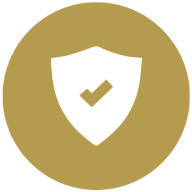
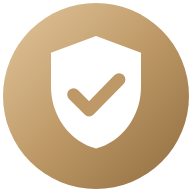
insuranceadjustersalary: SEO pass for the live domain
- Google tag (G-KLZBN543NX) on every page and post via the shared header
- Google Search Console verification file at the site root
- Favicon set: favicon.ico (16/32/48), SVG, 16/32 PNG, apple-touch-icon,
  192/512 + maskable icons and site.webmanifest
- Static robots.txt with the sitemap (the host serves .txt files directly)
- Sitemap: real lastmod dates and image entries
- Canonical URLs, schema and sitemap always use https://insuranceadjustersalary.com;
  /index.php and /dir/index.php 301 to the clean URL
- WebPage + BreadcrumbList schema on every page, article published/modified
  meta, Twitter and og:locale tags, noindex on the 404 page
- Fixed meta description lengths on home, privacy and terms

Claude-Session: https://claude.ai/code/session_01Pc9e9GP3dDvseSFrpLeuDY

diff --git a/insuranceadjustersalary/googlecccfbf2f7e9e5ae4.html b/insuranceadjustersalary/googlecccfbf2f7e9e5ae4.html
@@ -1,0 +1,1 @@
+google-site-verification: googlecccfbf2f7e9e5ae4.html

diff --git a/insuranceadjustersalary/inc/header.php b/insuranceadjustersalary/inc/header.php
@@ -17,7 +17,8 @@ $graph = array_merge([
         '@id'   => base_url() . '/#org',
         'name'  => SITE_NAME,
         'url'   => base_url() . '/',
-        'logo'  => base_url() . '/icon-192.png',
+        'logo'  => base_url() . '/icon-512.png',
+        'description' => SITE_TAGLINE,
     ],
     [
         '@type' => 'WebSite',
@@ -29,15 +30,42 @@ $graph = array_merge([
 ], $page['schema']);
 
 $current = strtok($_SERVER['REQUEST_URI'] ?? '/', '?');
+
+// BreadcrumbList for regular pages (blog posts build their own in post-template.php)
+if ($page['type'] !== 'article' && $page['path'] !== '/' && empty($page['noindex'])) {
+    $names = ['tools' => 'Tools', 'insurance-adjuster-advice' => 'Insurance Adjuster Advice', 'about' => 'About',
+        'privacy-policy' => 'Privacy Policy', 'terms-of-use' => 'Terms of Use'];
+    $crumbs = [['@type' => 'ListItem', 'position' => 1, 'name' => 'Home', 'item' => base_url() . '/']];
+    $isTool = in_array($page['path'], array_column(tools(), 'path'), true);
+    if ($isTool) {
+        $crumbs[] = ['@type' => 'ListItem', 'position' => 2, 'name' => 'Tools', 'item' => base_url() . '/tools/'];
+    }
+    $slug = trim($page['path'], '/');
+    $label = $names[$slug] ?? ($isTool ? array_column(tools(), 'name', 'path')[$page['path']] : $page['title']);
+    $crumbs[] = ['@type' => 'ListItem', 'position' => count($crumbs) + 1, 'name' => $label, 'item' => $canonical];
+    $graph[] = ['@type' => 'BreadcrumbList', 'itemListElement' => $crumbs];
+}
+$graph[] = ['@type' => 'WebPage', '@id' => $canonical . '#webpage', 'url' => $canonical,
+    'name' => $page['title'], 'description' => $page['description'], 'isPartOf' => ['@id' => base_url() . '/#website'], 'inLanguage' => 'en-US',
+    'primaryImageOfPage' => $ogImage];
 ?><!doctype html>
 <html lang="en-US">
 <head>
 <meta charset="utf-8">
 <meta name="viewport" content="width=device-width, initial-scale=1">
+<!-- Google tag (gtag.js) -->
+<script async src="https://www.googletagmanager.com/gtag/js?id=<?= GA_ID ?>"></script>
+<script>
+  window.dataLayer = window.dataLayer || [];
+  function gtag(){dataLayer.push(arguments);}
+  gtag('js', new Date());
+
+  gtag('config', '<?= GA_ID ?>');
+</script>
 <title><?= e($page['title']) ?></title>
 <meta name="description" content="<?= e($page['description']) ?>">
-<?php if (is_temporary_host()): ?>
-<meta name="robots" content="noindex, nofollow">
+<?php if (is_temporary_host() || !empty($page['noindex'])): ?>
+<meta name="robots" content="noindex, follow">
 <?php else: ?>
 <meta name="robots" content="index, follow, max-image-preview:large">
 <?php endif; ?>
@@ -48,10 +76,25 @@ $current = strtok($_SERVER['REQUEST_URI'] ?? '/', '?');
 <meta property="og:description" content="<?= e($page['description']) ?>">
 <meta property="og:url" content="<?= e($canonical) ?>">
 <meta property="og:image" content="<?= e($ogImage) ?>">
+<meta property="og:image:width" content="1200">
+<meta property="og:image:alt" content="<?= e($page['title']) ?>">
+<meta property="og:locale" content="en_US">
+<?php if ($page['type'] === 'article' && !empty($page['published'])): ?>
+<meta property="article:published_time" content="<?= e($page['published']) ?>">
+<meta property="article:modified_time" content="<?= e($page['modified'] ?? $page['published']) ?>">
+<?php endif; ?>
 <meta name="twitter:card" content="summary_large_image">
+<meta name="twitter:title" content="<?= e($page['title']) ?>">
+<meta name="twitter:description" content="<?= e($page['description']) ?>">
+<meta name="twitter:image" content="<?= e($ogImage) ?>">
 <meta name="theme-color" content="#121212">
+<link rel="icon" href="/favicon.ico" sizes="48x48">
+<link rel="icon" type="image/svg+xml" href="/favicon.svg">
 <link rel="icon" type="image/png" sizes="32x32" href="/favicon-32.png">
-<link rel="apple-touch-icon" href="/apple-touch-icon.png">
+<link rel="icon" type="image/png" sizes="16x16" href="/favicon-16.png">
+<link rel="apple-touch-icon" sizes="180x180" href="/apple-touch-icon.png">
+<link rel="manifest" href="/site.webmanifest">
+<link rel="sitemap" type="application/xml" title="Sitemap" href="/sitemap.xml">
 <link rel="preconnect" href="https://fonts.googleapis.com">
 <link rel="preconnect" href="https://fonts.gstatic.com" crossorigin>
 <link href="https://fonts.googleapis.com/css2?family=Inter:wght@400;500;600;700&family=Playfair+Display:wght@600;700;800&display=swap" rel="stylesheet">

diff --git a/insuranceadjustersalary/inc/sitemap.php b/insuranceadjustersalary/inc/sitemap.php
@@ -1,23 +1,35 @@
 <?php
-// XML sitemap built from the page list + blog posts, using the host the site is served from.
+// XML sitemap (pages + blog posts, with image entries) on the canonical domain.
+$posts = all_posts();
+$latest = max(array_map(fn($p) => $p['updated'] ?? $p['date'], $posts) ?: ['2026-10-19']);
+$siteUpdated = '2026-10-19';
+
 $urls = [
-    ['/', date('Y-m-d'), '1.0'],
-    ['/tools/', '2026-10-19', '0.8'],
-    ['/salary-calculator/', '2026-10-19', '0.9'],
-    ['/cat-deployment-calculator/', '2026-10-19', '0.8'],
-    ['/public-adjuster-fee-calculator/', '2026-10-19', '0.8'],
-    ['/salary-by-state/', '2026-10-19', '0.9'],
-    [BLOG_BASE, array_values(all_posts())[0]['date'] ?? '2026-10-19', '0.8'],
-    ['/about/', '2026-10-19', '0.4'],
-    ['/privacy-policy/', '2026-10-19', '0.2'],
-    ['/terms-of-use/', '2026-10-19', '0.2'],
+    ['/', max($latest, $siteUpdated), '1.0', 'hero-roof-inspection.webp'],
+    ['/salary-calculator/', $siteUpdated, '0.9', 'analytics-laptop.webp'],
+    ['/salary-by-state/', $siteUpdated, '0.9', 'miami-skyline.webp'],
+    ['/cat-deployment-calculator/', $siteUpdated, '0.8', 'tornado-storm.webp'],
+    ['/public-adjuster-fee-calculator/', $siteUpdated, '0.8', 'signing-documents.webp'],
+    ['/tools/', $siteUpdated, '0.7', 'women-laptop.webp'],
+    [BLOG_BASE, $latest, '0.8', 'office-team.webp'],
+    ['/about/', $siteUpdated, '0.4', 'handshake.webp'],
+    ['/privacy-policy/', $siteUpdated, '0.2', null],
+    ['/terms-of-use/', $siteUpdated, '0.2', null],
 ];
-foreach (all_posts() as $p) {
-    $urls[] = [post_url($p), $p['updated'] ?? $p['date'], '0.7'];
+foreach ($posts as $p) {
+    $urls[] = [post_url($p), $p['updated'] ?? $p['date'], '0.7', $p['image']];
 }
+
 echo '<?xml version="1.0" encoding="UTF-8"?>' . "\n";
-echo '<urlset xmlns="http://www.sitemaps.org/schemas/sitemap/0.9">' . "\n";
-foreach ($urls as [$loc, $mod, $prio]) {
-    echo '  <url><loc>' . e(base_url() . $loc) . '</loc><lastmod>' . e($mod) . '</lastmod><priority>' . $prio . "</priority></url>\n";
+echo '<urlset xmlns="http://www.sitemaps.org/schemas/sitemap/0.9" xmlns:image="http://www.google.com/schemas/sitemap-image/1.1">' . "\n";
+foreach ($urls as [$loc, $mod, $prio, $img]) {
+    echo '  <url>' . "\n";
+    echo '    <loc>' . e(base_url() . $loc) . "</loc>\n";
+    echo '    <lastmod>' . e($mod) . "</lastmod>\n";
+    echo '    <priority>' . $prio . "</priority>\n";
+    if ($img) {
+        echo '    <image:image><image:loc>' . e(base_url() . '/assets/img/' . $img) . "</image:loc></image:image>\n";
+    }
+    echo "  </url>\n";
 }
 echo '</urlset>' . "\n";

diff --git a/insuranceadjustersalary/inc/config.php b/insuranceadjustersalary/inc/config.php
@@ -11,12 +11,26 @@ const ASSET_VER    = '20261019b';
 
 define('SITE_ROOT', dirname(__DIR__));
 
-/** Scheme + host the site is being served from (works on the temporary domain and after the move). */
+const GA_ID        = 'G-KLZBN543NX';
+
+/** Canonical origin. Always the real domain so canonicals, sitemap and schema never point at a preview host. */
 function base_url(): string
 {
-    $host = $_SERVER['HTTP_HOST'] ?? CANONICAL_HOST;
-    $host = preg_replace('/[^a-z0-9.\-:]/i', '', $host);
-    return 'https://' . $host;
+    $host = strtolower($_SERVER['HTTP_HOST'] ?? '');
+    if (str_contains($host, 'localhost') || str_starts_with($host, '127.')) {
+        return 'http://' . preg_replace('/[^a-z0-9.\-:]/i', '', $host);   // local preview
+    }
+    return 'https://' . CANONICAL_HOST;
+}
+
+// Collapse duplicate URLs: /index.php and /dir/index.php -> clean directory URL (301).
+if (PHP_SAPI !== 'cli') {
+    $reqPath = strtok($_SERVER['REQUEST_URI'] ?? '/', '?');
+    if (preg_match('#^(.*/)index\.php$#', $reqPath, $m)) {
+        $qs = $_SERVER['QUERY_STRING'] ?? '';
+        header('Location: ' . $m[1] . ($qs !== '' ? '?' . $qs : ''), true, 301);
+        exit;
+    }
 }
 
 /** True while the site is on a Hostinger preview/temporary domain - keeps it out of Google until the real domain moves over. */

diff --git a/insuranceadjustersalary/privacy-policy/index.php b/insuranceadjustersalary/privacy-policy/index.php
@@ -1,6 +1,6 @@
 <?php
 require dirname(__DIR__) . '/inc/config.php';
-$page = ['title' => 'Privacy Policy | ' . SITE_NAME, 'description' => 'How Insurance Adjuster Salary handles information when you use our website and calculators.', 'path' => '/privacy-policy/', 'image' => 'laptop-notes.webp'];
+$page = ['title' => 'Privacy Policy | ' . SITE_NAME, 'description' => 'Privacy policy for Insurance Adjuster Salary: what we collect when you use our adjuster salary guides and calculators, cookies, analytics and affiliate links.', 'path' => '/privacy-policy/', 'image' => 'laptop-notes.webp'];
 require SITE_ROOT . '/inc/header.php';
 echo page_hero('Legal', 'Privacy Policy', 'Last updated October 19, 2026.', 'laptop-notes.webp', ['Privacy Policy' => null]);
 ?>

diff --git a/insuranceadjustersalary/terms-of-use/index.php b/insuranceadjustersalary/terms-of-use/index.php
@@ -1,6 +1,6 @@
 <?php
 require dirname(__DIR__) . '/inc/config.php';
-$page = ['title' => 'Terms of Use | ' . SITE_NAME, 'description' => 'Terms of use for the Insurance Adjuster Salary website, salary data and calculators.', 'path' => '/terms-of-use/', 'image' => 'signing-documents.webp'];
+$page = ['title' => 'Terms of Use | ' . SITE_NAME, 'description' => 'Terms of use for Insurance Adjuster Salary: how to use our adjuster salary estimates, calculators and licensing information, plus affiliate link disclosures.', 'path' => '/terms-of-use/', 'image' => 'signing-documents.webp'];
 require SITE_ROOT . '/inc/header.php';
 echo page_hero('Legal', 'Terms of Use', 'Last updated October 19, 2026.', 'signing-documents.webp', ['Terms of Use' => null]);
 ?>

diff --git a/insuranceadjustersalary/inc/home.php b/insuranceadjustersalary/inc/home.php
@@ -33,7 +33,7 @@ $chart = ['texas' => [
 
 $page = [
     'title'       => 'Insurance Adjuster Salary in Texas (2026) & Nationwide Pay',
-    'description' => 'Insurance adjuster salary data for Texas and every state: staff, independent, CAT and public adjuster pay, Texas metro salaries, free calculators and fast licensing.',
+    'description' => 'Insurance adjuster salary data for Texas and every state: staff, independent, CAT and public adjuster pay, Texas metro salaries and free calculators.',
     'path'        => '/',
     'body_class'  => 'has-hero',
     'preload'     => 'hero-roof-inspection.webp',

diff --git a/insuranceadjustersalary/inc/404.php b/insuranceadjustersalary/inc/404.php
@@ -3,6 +3,7 @@ $page = [
     'title' => 'Page Not Found | ' . SITE_NAME,
     'description' => 'The page you were looking for has moved. Explore insurance adjuster salary guides, calculators and career advice.',
     'path' => '/404/',
+    'noindex' => true,
 ];
 require __DIR__ . '/header.php';
 ?>

diff --git a/insuranceadjustersalary/inc/post-template.php b/insuranceadjustersalary/inc/post-template.php
@@ -50,6 +50,8 @@ $page = [
     'path' => post_url($post),
     'image' => $post['image'],
     'type' => 'article',
+    'published' => $post['date'],
+    'modified' => $post['updated'] ?? $post['date'],
     'schema' => $schema,
     'body_class' => 'has-hero',
 ];
